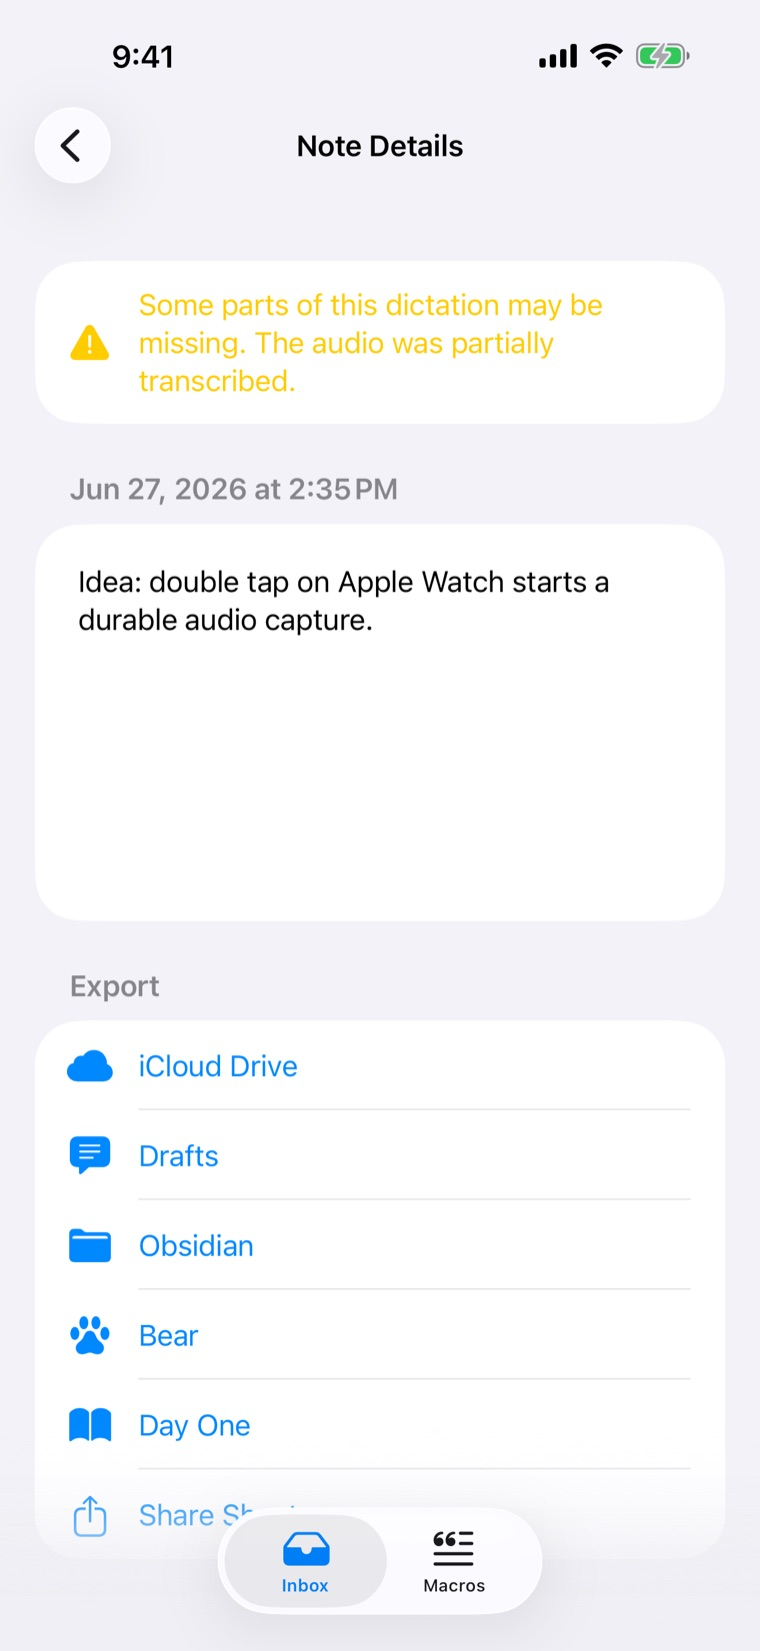
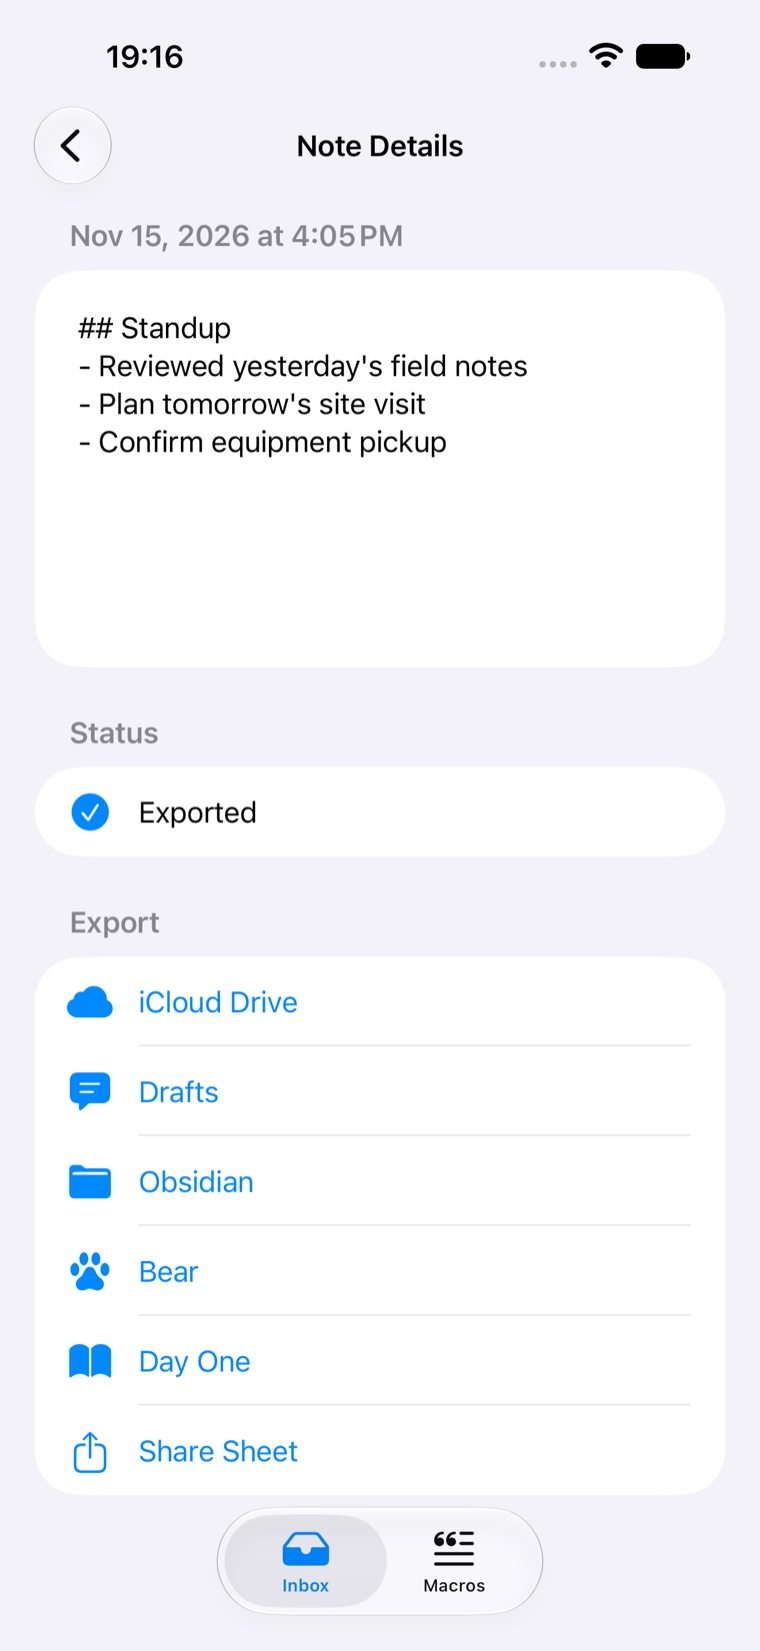
Record inspected screenshot sets and simulator smoke handback

diff --git a/docs/index.html b/docs/index.html
@@ -799,7 +799,7 @@ Idea: double tap on Apple Watch starts a durable audio capture.</pre>
         </div>
         <div class="split-media">
           <figure class="phone" style="margin:0">
-            <img src="assets/screens/iphone-detail.jpg" width="760" height="1651" loading="lazy" alt="Note Details on iPhone, warning that some of a dictation may be missing, with export buttons for iCloud Drive, Drafts, Obsidian, Bear, Day One and Share Sheet.">
+            <img src="assets/screens/iphone-detail.jpg" width="760" height="1651" loading="lazy" alt="Note Details on iPhone, showing the Standup note, its Exported status, and export destinations.">
           </figure>
         </div>
       </div>
@@ -828,7 +828,7 @@ Idea: double tap on Apple Watch starts a durable audio capture.</pre>
         </div>
         <div class="split-media">
           <figure class="phone" style="margin:0">
-            <img src="assets/screens/iphone-macros.jpg" width="760" height="1651" loading="lazy" alt="The Macros screen on iPhone, with watch double-tap, save location and export settings above custom macros such as Standup and Capture Idea.">
+            <img src="assets/screens/iphone-macros.jpg" width="760" height="1651" loading="lazy" alt="The Macros list on iPhone, showing Standup and Capture Idea custom macros alongside built-in Markdown and location macros.">
           </figure>
         </div>
       </div>

diff --git a/docs/verification/v1.1-m4/README.md b/docs/verification/v1.1-m4/README.md
@@ -7,8 +7,8 @@ November 15, Xcode 27.2 / iOS Simulator 27.2. These observations supersede the i
 The project screenshot test runs through xcodebuild test-without-building, with an explicit owned destination, parallel testing disabled, and no erase or clone options. Fastlane snapshot itself is not invoked, so its default erase setting does not run. Its screenshot helper uses en-US / en_US cache files.
 
 - iPhone 17e: passed, five images inspected. Direct Send has no secure-settings warning; the full macro list is visible above the tab bar after the framing correction. Built-in macro lock markers are the existing default-macro markers, not a purchase prompt. Note previews intentionally truncate; the incomplete capture is existing sample data. The compact Inbox filter abbreviates Needs Attention, and note-detail export actions continue below the viewport.
-- iPhone 17 Pro Max: pending.
-- iPad Pro 13-inch M5: pending.
+- iPhone 17 Pro Max: passed; five settled-run images inspected. First post-boot capture had transient section spacing, so the same booted device was rerun after capacity recovered. The retained Direct Send image has clean spacing; all macro descriptions are visible. Website JPEGs derive from this set at 760 pixels wide.
+- iPad Pro 13-inch M5: passed, five images inspected. Direct Send is clean; both custom macros and every built-in description are visible. The settings content above the macro section scrolls under the top toolbar as expected. The New Macro sheet is fully visible.
 
 ## Interactive smoke on iPhone 17e
 
@@ -28,10 +28,59 @@ All actions used T3 device_open and its returned agent-device command. The devic
 
 One tap was refused because the keyboard covered Save. Following the tool's keyboard-enter advice dismissed it; the next tap succeeded. No alternate UI control was used.
 
+## Reproduction
+
+After the host capacity gate passes and no other Apple run is active:
+
+```sh
+xcodebuild build-for-testing -project MacroMark.xcodeproj -scheme MacroMark \
+  -configuration Debug -destination 'generic/platform=iOS Simulator' \
+  -derivedDataPath "$MM_DERIVED_DATA" CODE_SIGNING_ALLOWED=NO
+xcodebuild test-without-building -project MacroMark.xcodeproj -scheme MacroMark \
+  -configuration Debug -destination "platform=iOS Simulator,id=$MM_DEVICE_ID" \
+  -destination-timeout 600 -derivedDataPath "$MM_DERIVED_DATA" \
+  -resultBundlePath "$MM_RESULT_BUNDLE" -parallel-testing-enabled NO \
+  -maximum-concurrent-test-simulator-destinations 1 -collect-test-diagnostics never \
+  -only-testing:MacroMarkUITests/MacroMarkScreenshotUITests/testAppStoreScreenshots \
+  CODE_SIGNING_ALLOWED=NO
+```
+
+Use the three exact Snapfile model types with owned instances. On this host,
+first boot through the project runner makes the device visible to T3. Interactive
+steps then use device_list, device_open and its returned agent-device command.
+Keep each model booted through its checks; close its session before its final
+shutdown. The approved sequential run requires load below 20 and at least ten
+minutes between first boots. Never erase or clone devices. Screenshot cache
+locale is en-US / en_US; preserve originals before cleanup.
+
+## Host cleanup
+
+Each model booted once and stayed booted through its checks. The 17e session
+was closed before shutdown; all three final shutdowns used device_close under
+the explicit sequential-model approval. No runner erased or shut down a device.
+The temporary Pro Max instance was deleted after shutdown; pre-existing devices
+were retained. Retained build/results measured about 895 MB before cleanup.
+Temporary DerivedData, full result bundles, logs and our Fastlane cache files
+were deleted after preserving the evidence below. No other task device was touched.
+
+## Review and retained results
+
+Three independent fresh-context review rounds completed. Round 2 found the iPad top-tab boundary assumption, corrected before its run. Round 3 found no blockers in the final source, iPhone images, website JPEGs or evidence claims; the parent agent subsequently inspected all five iPad images. Store text received independent review. Each model directory contains the original xcresult test-summary.json (one test passed, zero failures). These summaries and 15 PNGs are retained; full build/results are temporary.
+
 ## Originals and hashes
 
 | File | Dimensions | SHA256 |
 | --- | --- | --- |
+| ipad-pro-13-m5/iPad Pro 13-inch (M5)-01-inbox.png | 2064 × 2752 | 660ac07b42513e79500ab55647f5f0cf6a2965586039abcb82a3702e420c2aef |
+| ipad-pro-13-m5/iPad Pro 13-inch (M5)-02-note-detail.png | 2064 × 2752 | ebe4deccff6d6dd3c43c7844d9ae71dcdb4fc1c622b4027e5e09b0aeb06ba414 |
+| ipad-pro-13-m5/iPad Pro 13-inch (M5)-03-macros.png | 2064 × 2752 | 11ff3a88ad14292061412e5fb91162e0f94303126bfe07de710c2c52b9f5ec83 |
+| ipad-pro-13-m5/iPad Pro 13-inch (M5)-04-new-macro.png | 2064 × 2752 | 922b7f872646cb2649f7594266c88c77d785e1655bbaf3833707a55abc394044 |
+| ipad-pro-13-m5/iPad Pro 13-inch (M5)-05-direct-send.png | 2064 × 2752 | 5307cb095efb2d8d9619d0615e8e4c8acdb9397b3e28345b6e2936899a2c58c6 |
+| iphone-17-pro-max/MM1161-ProMax-01-inbox.png | 1320 × 2868 | ede7d2515d64b5a4bdde36d5e7ad951e4b310b9193d377b30ec3d31cb0a6f9c4 |
+| iphone-17-pro-max/MM1161-ProMax-02-note-detail.png | 1320 × 2868 | 4b3f806df8d626b914a31ef67ef1b1d52275a3a17304d856f7e1dbbbf6e432fc |
+| iphone-17-pro-max/MM1161-ProMax-03-macros.png | 1320 × 2868 | bd24a2e18ed3343f379be57170f5d3733b9b178dee84ae39070021574c8b0970 |
+| iphone-17-pro-max/MM1161-ProMax-04-new-macro.png | 1320 × 2868 | 3e8c1cb06b7467d02d0d98f5a68a07a96889fee74403314f97bf4db1e8bfc4d7 |
+| iphone-17-pro-max/MM1161-ProMax-05-direct-send.png | 1320 × 2868 | 129ad30caed982547b057ab552023e663e66a4d33d8ce046a9c1312f8c6a8688 |
 | iphone-17e/iPhone 17e-01-inbox.png | 1170 × 2532 | 97d3195ef1eeaed8b752cdb69e26ed75597e6abd78d50ff329eca7ad2ca49a42 |
 | iphone-17e/iPhone 17e-02-note-detail.png | 1170 × 2532 | 95e0752154dc6a73fcb011e47b007eb4d4454db355a74775bbc184aecb3940de |
 | iphone-17e/iPhone 17e-03-macros.png | 1170 × 2532 | 08b3ebebbe49aab41fff4edcf38f455d5ee0c1c529eb8e356b0b30b94395f30e |

diff --git a/docs/V1_1_SUBMISSION.md b/docs/V1_1_SUBMISSION.md
@@ -2,6 +2,14 @@
 
 Prepared 2026-11-15. This is a preparation record, not an Apple submission or release receipt.
 
+**Current M4 status:** fixture and framing corrections compile; iPhone 17e and
+iPhone 17 Pro Max and iPad Pro 13-inch M5 screenshot tests passed. All 15
+images were inspected. Interactive smoke ran on the 17e: normal unsigned
+Direct Send fails its Keychain read; fixture-mode navigation and validation
+pass. Website iPhone images now use the inspected Pro Max set. See
+[current evidence](verification/v1.1-m4/README.md). Earlier blocked attempts
+below are retained as history. Keep the PR draft: **Needs landing from the Mac**.
+
 ## Changes since 1.0
 
 Written before changing listing copy or assets. GitHub returned no tags and no
@@ -276,3 +284,19 @@ Interactive results distinguish the normal unsigned Keychain failure from
 successful fixture-mode navigation and validation. See the per-step observations,
 original images and hashes in [M4 evidence](verification/v1.1-m4/README.md).
 No physical-device, real Keychain persistence or Watch transfer success is claimed.
+
+### Final M4 capture and review
+
+All three exact Snapfile models passed the screenshot test on the corrected
+source. All 15 retained PNGs were inspected; Direct Send has no secure-settings
+warning and the complete macro list fits. The website now uses resized Pro Max
+captures. Final source/evidence review round 3 found no blockers; three review
+rounds total. The 14 documentation tests, metadata limits and diff check pass.
+Current origin/nightly remains fully included; no merge was needed.
+
+The interactive smoke result is partial: normal unsigned Direct Send fails at
+Keychain loading. Fixture-mode navigation, controls and invalid-input feedback
+pass. Real persistence, Watch transfer and delivery remain signed-device checks.
+The Mac must land the draft through land_pr.py after its required checks pass.
+Dan-only work remains release binary choice, signed-device checks, and submission
+with final privacy answers. No release, signing or workflow settings changed.
